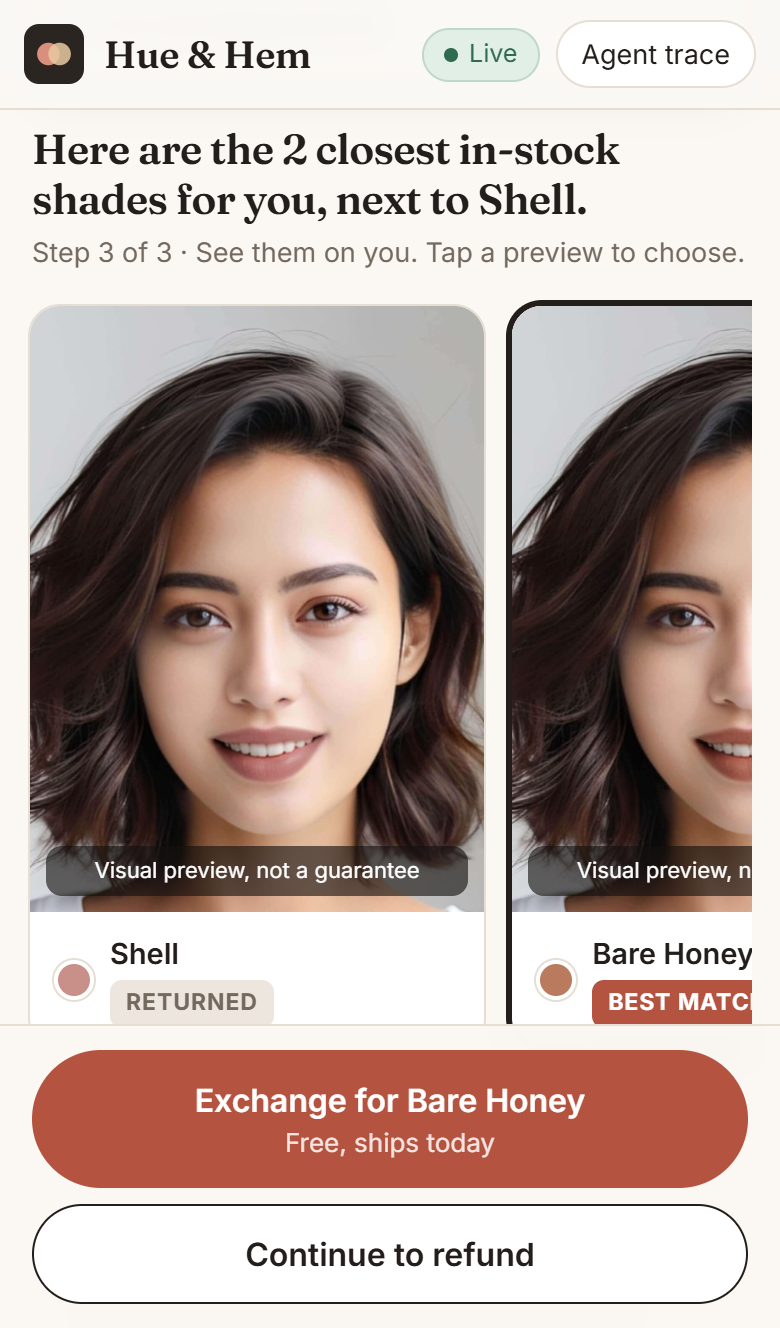
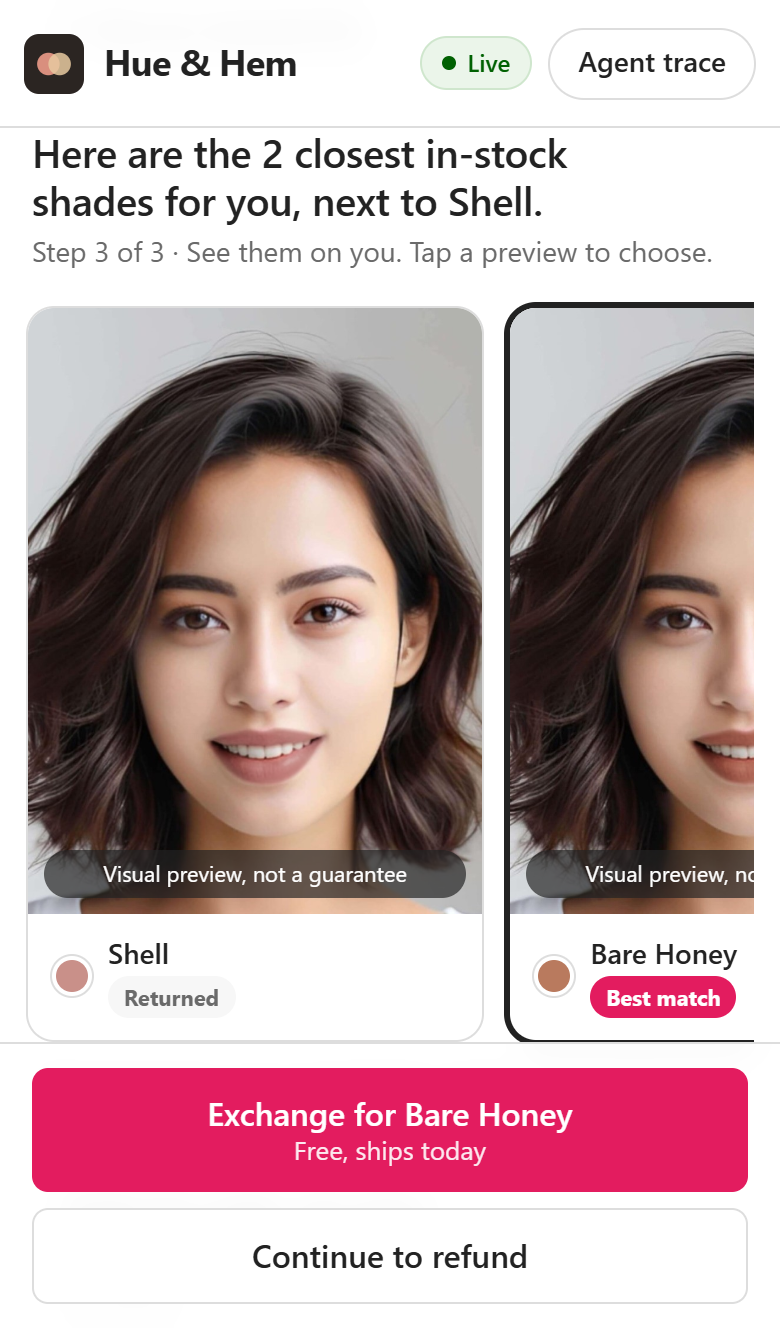
Docs and screenshots for the tabbed UI
All 14 screenshots retaken on the hosted live server (sample-model runs
replay cached YouCam results, 0 units). README, DESCRIPTION and ASSETS
describe the four workspace tabs, the five dashboard tabs and the
design-token credit; no web fonts are loaded any more.

Claude-Session: https://claude.ai/code/session_013J8H7Yxp3cMY3Qm41Doi5L

diff --git a/README.md b/README.md
@@ -3,7 +3,7 @@
 **The returns desk with a mirror: see the right match on you before you send it back.**
 
 ### ▶ Live demo: **https://sarthak-1111.github.io/mirrormatch/**
-*Opens the connected workspace (phone, agent console, merchant view). Press **Run a return for me** and the app plays a whole return by itself with YouCam's sample model: replays of real YouCam results, 0 units. Or upload your own selfie in the phone (live YouCam calls, capped per day). The demo runs on the author's workstation through a Cloudflare tunnel; if it's resting, `npm run mock` runs everything locally with no key.*
+*Opens the workspace on its first tab, **Try it**: pick Lipstick, Dress, Hair colour or Foundation and the app plays a whole return by itself with YouCam's sample model: replays of real YouCam results, 0 units. Or upload your own selfie in the phone (live YouCam calls, capped per day). The demo runs on the author's workstation through a Cloudflare tunnel; if it's resting, `npm run mock` runs everything locally with no key.*
 
 When a shopper starts a return because *"the shade didn't match"*, *"the colour didn't suit me"* or *"it didn't suit my skin"*, MirrorMatch:
 1. asks for one photo and measures their skin tone (and, for foundation and skincare, reads their skin),
@@ -19,7 +19,7 @@ Demo store: **Hue & Hem**, a fictional shop. No real brands. Start with the one-
 
 **Why it's different.** Shade finders guess *before* a purchase. A return is the only time a store learns what actually failed: *this shade, on this tone profile, didn't work*. MirrorMatch turns each of those moments into a saved sale for the shopper and a fix for the store's catalogue.
 
-| The workspace: autopilot, agent console, merchant view | Hair colour, before / after | Lips on the new dress (makeup + clothes) |
+| The workspace, "Try it" tab: a return playing in the phone | Hair colour, before / after | Lips on the new dress (makeup + clothes) |
 |---|---|---|
 | ![Workspace](docs/screenshots/10-workspace.png) | ![Hair colour before and after](docs/screenshots/11-hair-colour.png) | ![Lipstick rendered over the dress try-on](docs/screenshots/12-lips-on-dress.png) |
 
@@ -77,8 +77,9 @@ We don't quote industry return-rate statistics here. The dashboard shows only wh
 - **Agent suggestions**, drafted by deterministic code. *Fill the gap* proposes a new shade for an under-served tone profile, with the target colour (hex + CIELAB) from the matcher's own target logic, and can render that exact colour on YouCam's sample model (makeup-vto, 1 unit, then cached; "Visual preview, not a guarantee"). *Product-page fit notes* draft copy such as "Runs light and warm on deep, cool skin". Notes from synthetic data say so. **Approve** or **Dismiss** only logs an event; nothing external happens. The optional LLM may reword the text; templates otherwise.
 
 **For judges and demos: the workspace (`/workspace.html`)**
-- One desktop screen: the shopper app in a phone frame (`/?embed=1`), a live **agent console** that follows the session in the phone (each tool call, decision, timing and unit), a compact **merchant strip** (KPIs, latest events, suggestions) and an **environment panel** (YouCam transport, units and cap, demo cache, optional LLM, returns-portal webhook, privacy guarantees).
-- **Run a return for me:** pick *Lipstick* or *Dress* and the app plays the whole return itself through the real UI: order, reason, offer, consent, YouCam's sample photo, analysis, previews, the before/after slider, then an exchange for the top match. Each step has a caption and a short pause. **Stop** (or pressing any control in the phone) hands control back at once, and the refund button stays visible throughout. Also available as `/?autoplay=lipstick` or `/?autoplay=dress`.
+- Four tabs, one thing on screen at a time: **Try it** (pick a return; the shopper app plays it in a phone frame, `/?embed=1`, with a progress bar and the latest agent steps in plain words), **Agent steps** (every tool call, decision, timing and unit for the session in the phone), **Store view** (KPIs, latest events, the agent's suggestions) and **Setup** (YouCam transport, units and cap, demo cache, optional LLM, returns-portal webhook, privacy guarantees). Tabs deep-link (`#agent`, `#store`, `#setup`), move with the arrow keys, and show a count of what is new while you look elsewhere.
+- **Design:** built on one design-token set (the Open Design retail package, Apache-2.0): one system font, a white canvas, near-black text and a single coral colour kept for the main action. The merchant dashboard is five tabs too (Overview, Shade fit, Suggestions, Demo history, Agent log), with the synthetic history on its own tab.
+- **Run a return for me:** pick *Lipstick*, *Dress*, *Hair colour* or *Foundation* and the app plays the whole return itself through the real UI: order, reason, offer, consent, YouCam's sample photo, analysis, previews, the before/after slider, then an exchange for the top match. Each step has a caption and a short pause. **Stop** (or pressing any control in the phone) hands control back at once, and the refund button stays visible throughout. Also available as `/?autoplay=lipstick`, `dress`, `hair` or `foundation`.
 - **Use YouCam's sample model:** the photo step also offers YouCam's official sample photo (face for makeup, waist-up for the dress), sent byte for byte so the demo cache (keyed by the photo hash) makes repeat runs free. Put the files in `samples-local/face.jpg` and `samples-local/body.jpg` (gitignored, see `ASSETS.md`); if they are missing the server fetches the official images once and keeps them in memory.
 
 **For a real store's stack**
@@ -323,7 +324,7 @@ server/            Express app, agent, tools, colour + policy engines, YouCam cl
   youcam/          mcp.js (MCP transport, default), client.js (REST V2 + fallback), mock.js, meter.js, errors.js
   store/           catalog, sessions, events, insights, fit (shade-fit matrix, gaps, passport), caches
 public/            shopper flow (index.html), story (story.html), merchant dashboard (merchant.html),
-                   workspace (workspace.html: phone frame, agent console, autopilot), assets
+                   workspace (workspace.html: tabs, phone frame, autopilot), assets
 docs/              screenshots, INTEGRATION.md (returns-portal webhook)
 data/              catalog.json, synthetic-history.json (labelled synthetic)
 scripts/           catalogue/asset generators, API verification, MCP check, screenshots, secret scan

diff --git a/DESCRIPTION.md b/DESCRIPTION.md
@@ -4,7 +4,7 @@
 
 **Track:** eCommerce VTO (makeup try-on + clothes try-on in one flow)
 
-**Live demo:** https://sarthak-1111.github.io/mirrormatch/ (press "Run a return for me")
+**Live demo:** https://sarthak-1111.github.io/mirrormatch/ (pick a return under "Try it")
 
 ---
 
@@ -38,7 +38,7 @@ MirrorMatch is a returns desk for a demo store, "Hue & Hem" (fictional, no real 
 - **The agent drafts the fix.** For a gap, it proposes a new shade (target hex and CIELAB from the matcher's own logic) and can preview that exact colour on YouCam's sample model; it drafts product-page fit notes. A person approves or dismisses: approving only logs an event.
 - Synthetic illustration data is always labelled and kept apart from live events. A **returns-portal webhook** lets an existing portal hand colour returns to MirrorMatch.
 
-**For judges: the connected workspace.** One screen with the shopper's phone, a live agent console (every tool, timing and unit), the merchant strip and an environment panel (YouCam over MCP, units and caps, cache, optional LLM, webhook, privacy). **"Run a return for me"** plays a whole lipstick, hair-colour, foundation or dress return by itself through the real UI. Stop hands control back at any moment.
+**For judges: the connected workspace.** Four calm tabs, one thing at a time: **Try it** (pick a lipstick, hair-colour, foundation or dress return and watch it play by itself in the phone, through the real UI, with a progress bar and the latest agent steps in plain words), **Agent steps** (every tool call, timing and unit), **Store view** (KPIs, live events, the agent's suggestions) and **Setup** (YouCam over MCP, units and caps, cache, optional LLM, webhook, privacy). Stop hands control back at any moment. The merchant dashboard is tabbed the same way, so nobody meets a wall of numbers.
 
 ## Why not just do this before purchase?
 

diff --git a/ASSETS.md b/ASSETS.md
@@ -12,7 +12,8 @@ Everything in this repository is original work released under the MIT licence (s
 | Product catalogue and mock orders | `data/catalog.json` | Self-made (`scripts/build-catalog.mjs`). Foundation shades are authored in CIE LCh | MIT (this repo) |
 | Synthetic return history | `data/synthetic-history.json` | Simulated with a fixed seed by `scripts/build-synthetic.mjs`. **Synthetic demo data, not real customers or results** | MIT (this repo) |
 | Synthetic test image (a flat cartoon face, not a person) | `test/fixtures/synthetic-face.jpg` | Self-made with PIL | MIT (this repo) |
-| Fonts: Fraunces, Inter | loaded from Google Fonts at runtime (not redistributed) | Google Fonts | SIL Open Font License 1.1 |
+| Fonts | none shipped or loaded: the system UI font | n/a | n/a |
+| Design tokens (`public/css/tokens.css`) | colour, type, spacing, radius and shadow values copied from an Open Design style package; no names, logos or imagery of any company are used | [Open Design](https://github.com/nexu-io/open-design) | Apache License 2.0 |
 | Screenshots | `docs/screenshots/*.png` | Captured from this app. The people shown are **YouCam official sample images** from the YouCam API documentation (see below), processed by the YouCam API | Screenshots: MIT (this repo). Sample photos: © Perfect Corp., used as documented samples for this YouCam hackathon |
 
 ## Photos of people

diff --git a/VIDEO.md b/VIDEO.md
@@ -2,6 +2,8 @@
 
 **The final cut is 2:55**, 1920×1080, with captions burned in. Everything shown is a real run of this repo in **live** mode against the YouCam API, called through YouCam's hosted MCP servers. The video file is not in the repo. It is uploaded to YouTube, and the link is in the Devpost submission.
 
+> **Note:** the video was filmed just before the interface moved to tabs and the current design tokens. The returns, the YouCam calls, the agent and the numbers are the same; the live demo and the screenshots show the newer, calmer layout (the workspace's "Try it" tab is the phone and the picker; the agent console, store view and setup now sit in their own tabs).
+
 ## How it was made (and what is not literal)
 
 - **Footage.** The story page, the workspace and the dashboard were recorded on desktop (1440×900). In the workspace, the shopper app runs in a phone frame and **autopilot** plays each return through the real UI (the same buttons a shopper presses). Recordings are scripted with Playwright and captured frame by frame over the Chrome DevTools screencast. Every autopilot step is time-stamped from the app's own messages, so the edit follows the real run.
